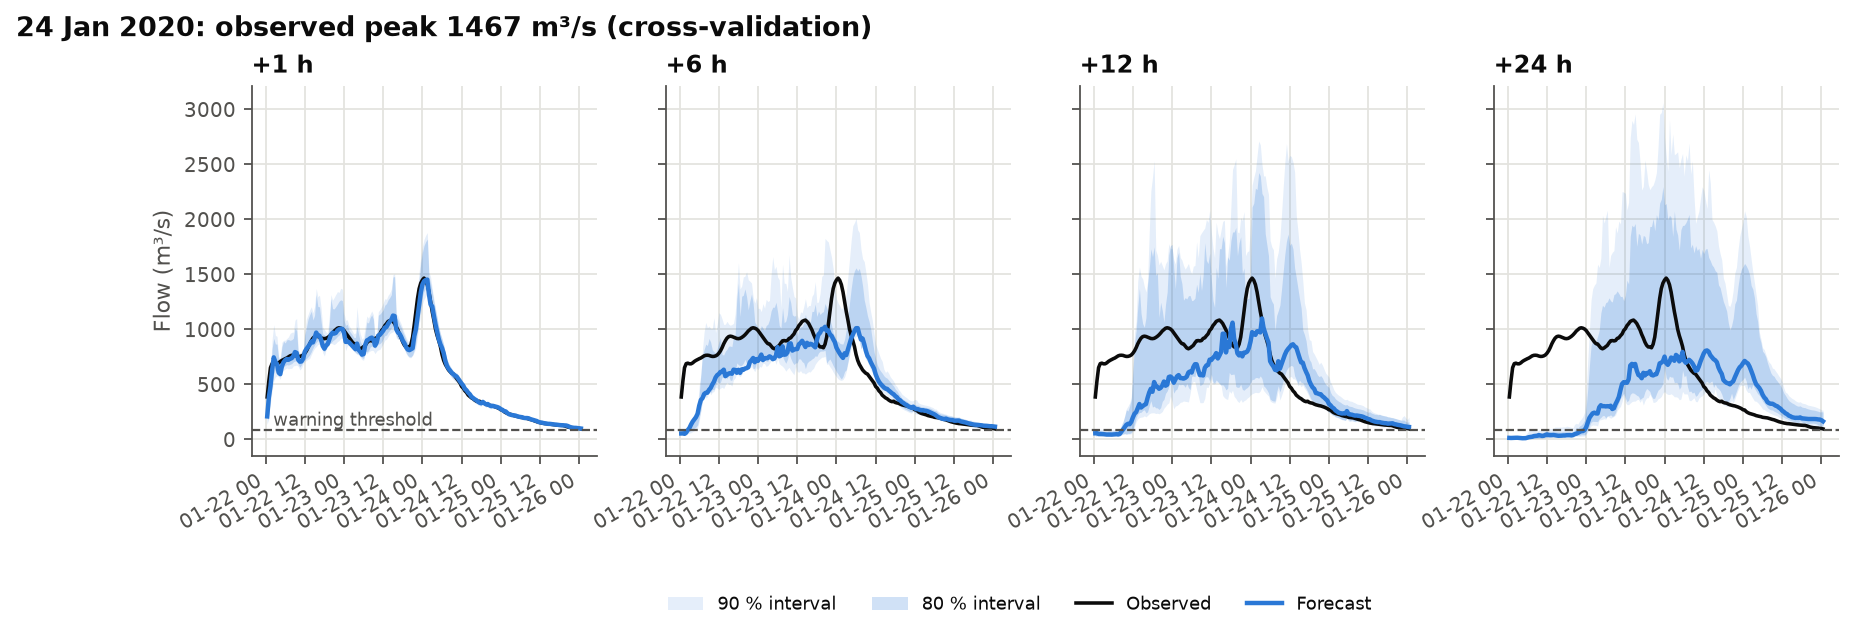
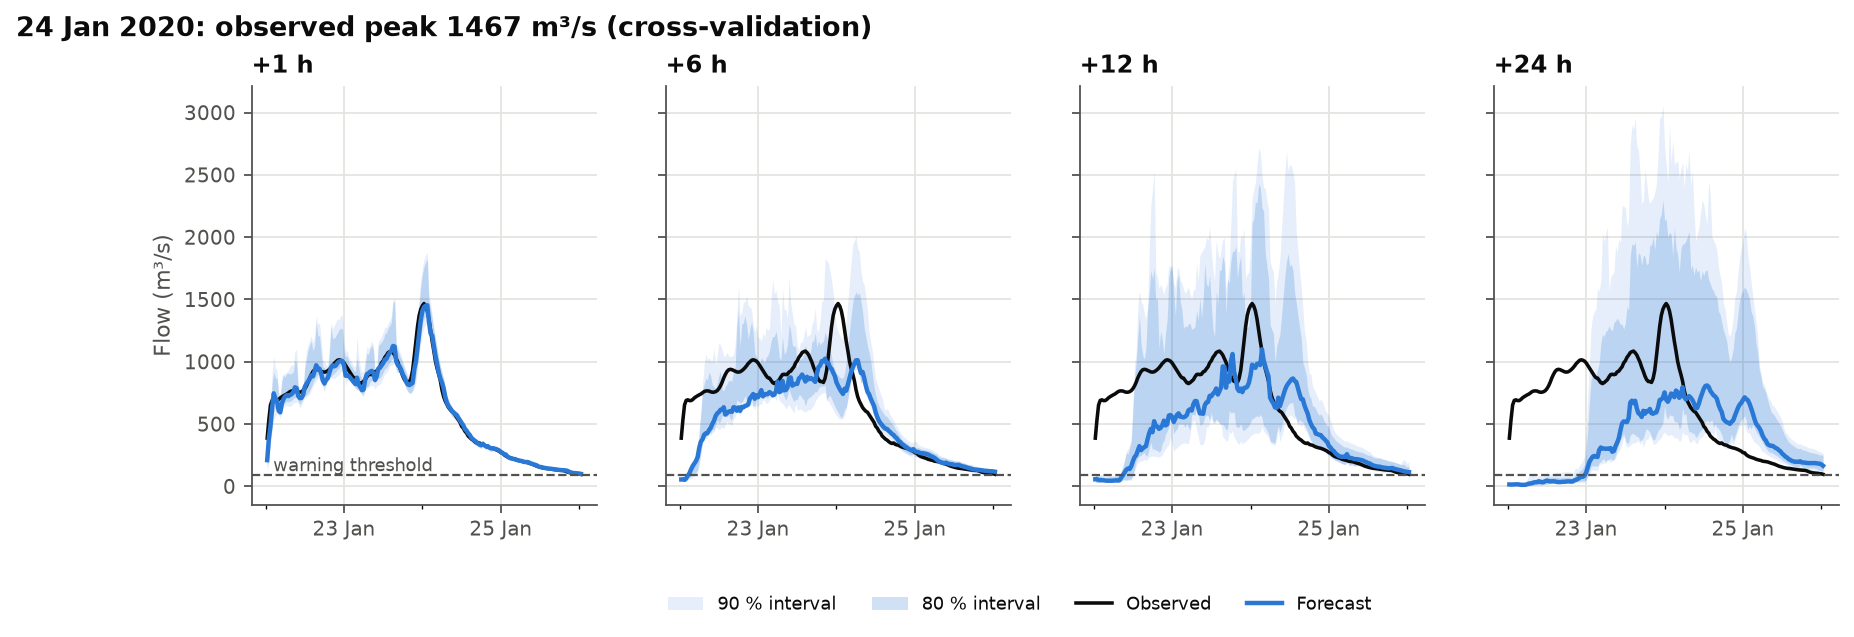
Fix figure layout, add social preview, link the live page

diff --git a/src/llobregat/report.py b/src/llobregat/report.py
@@ -285,6 +285,8 @@ def fig_hydrograph(
     horizons=(1, 6, 12, 24),
 ) -> None:
     plt = _plt()
+    import matplotlib.dates as mdates
+
     obs = observed_series(pred)
     a, b = peak_time - pd.Timedelta(days=2), peak_time + pd.Timedelta(days=2)
     hs = [h for h in horizons if h in set(pred["horizon_h"])]
@@ -321,7 +323,11 @@ def fig_hydrograph(
         ax.plot(t, get["central"], color=COLORS["central"], lw=2, label="Forecast")
         ax.axhline(threshold, color=INK2, lw=1, ls="--")
         ax.set_title(f"+{h:g} h", loc="left")
-        ax.tick_params(axis="x", rotation=30)
+        # A label every other day ("13 Sep") and a minor tick every day: readable in 4 panels
+        ax.xaxis.set_major_locator(mdates.DayLocator(interval=2, tz="UTC"))
+        ax.xaxis.set_major_formatter(mdates.DateFormatter("%d %b", tz="UTC"))
+        ax.xaxis.set_minor_locator(mdates.DayLocator(tz="UTC"))
+        ax.tick_params(axis="x", rotation=0, labelsize=8)
         _style(ax)
     axes[0].set_ylabel("Flow (m³/s)")
     axes[0].text(t[0], threshold, " warning threshold", va="bottom", fontsize=8, color=INK2)
@@ -336,7 +342,6 @@ def fig_hydrograph(
         bbox_to_anchor=(0.5, -0.12),
     )
     fig.suptitle(title, x=0.01, y=1.01, ha="left", fontweight="bold")
-    fig.autofmt_xdate()
     fig.savefig(path)
     plt.close(fig)
 
@@ -454,7 +459,7 @@ def fig_lead(lt: pd.DataFrame, path: Path) -> None:
     ax.set_xlabel("Warning issued at least x hours before the threshold crossing")
     ax.set_ylabel("Share of episodes")
     ax.set_ylim(0, 1.02)
-    ax.legend(frameon=False, fontsize=8, loc="lower left")
+    ax.legend(frameon=False, fontsize=8, loc="upper right")
     _style(ax)
     fig.savefig(path)
     plt.close(fig)

diff --git a/docs/reproducing.md b/docs/reproducing.md
@@ -63,10 +63,10 @@ except the last one, which is kept to calibrate the intervals, and writes:
 
 - `manifest.json`: inputs, features per lead time, CQR adjustments, warning threshold,
   training years and library versions;
-- `h<h>_lgbm.txt`, `h<h>_q05.txt` ... `h<h>_q95.txt`: LightGBM models (text format);
+- `h<h>_lgbm.txt.gz`, `h<h>_q05.txt.gz` ... `h<h>_q95.txt.gz`: LightGBM models (gzipped text);
 - `h<h>_ridge.joblib`: Ridge pipelines (scikit-learn; load them with the same version);
 - `source_importance.csv`, `feature_importance.csv`.
 
 `llobregat.operational.OperationalModel.load(path).predict(features)` turns a feature table
 built with `llobregat.features` into forecasts, intervals and warnings. The live app
-([llobregat-operatiu](https://github.com/joangordo/llobregat-operatiu)) uses exactly this.
+([llobregat-flood-forecast-live](https://github.com/joangordo/llobregat-flood-forecast-live)) uses exactly this.

diff --git a/README.md b/README.md
@@ -12,8 +12,9 @@ intervals and a two-level warning.
 > information, see the [Agència Catalana de l'Aigua](https://aca.gencat.cat) and
 > [Protecció Civil de Catalunya](https://interior.gencat.cat/ca/arees_dactuacio/proteccio_civil/).
 
-**Live forecast:** [llobregat-operatiu](https://github.com/joangordo/llobregat-operatiu)
-(GitHub Actions + GitHub Pages, updated every 30 minutes).
+**Live forecast:** [joangordo.github.io/llobregat-flood-forecast-live](https://joangordo.github.io/llobregat-flood-forecast-live/)
+(GitHub Actions + GitHub Pages, updated every 30 minutes; code:
+[llobregat-flood-forecast-live](https://github.com/joangordo/llobregat-flood-forecast-live)).
 
 ![Skill by lead time](docs/figures/skill_by_horizon.png)
 
